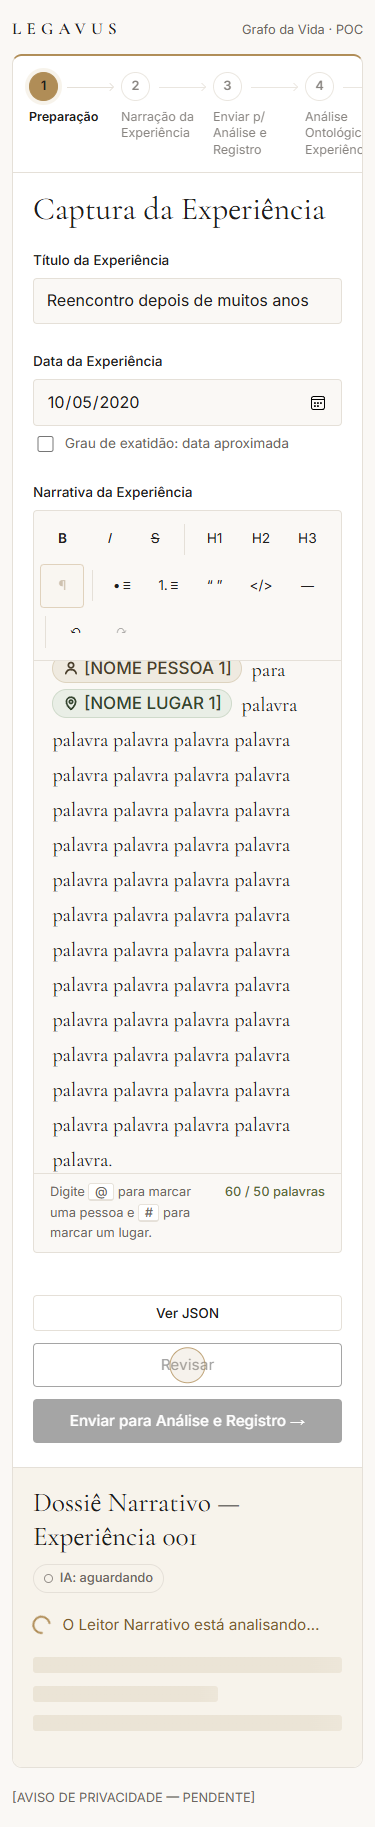
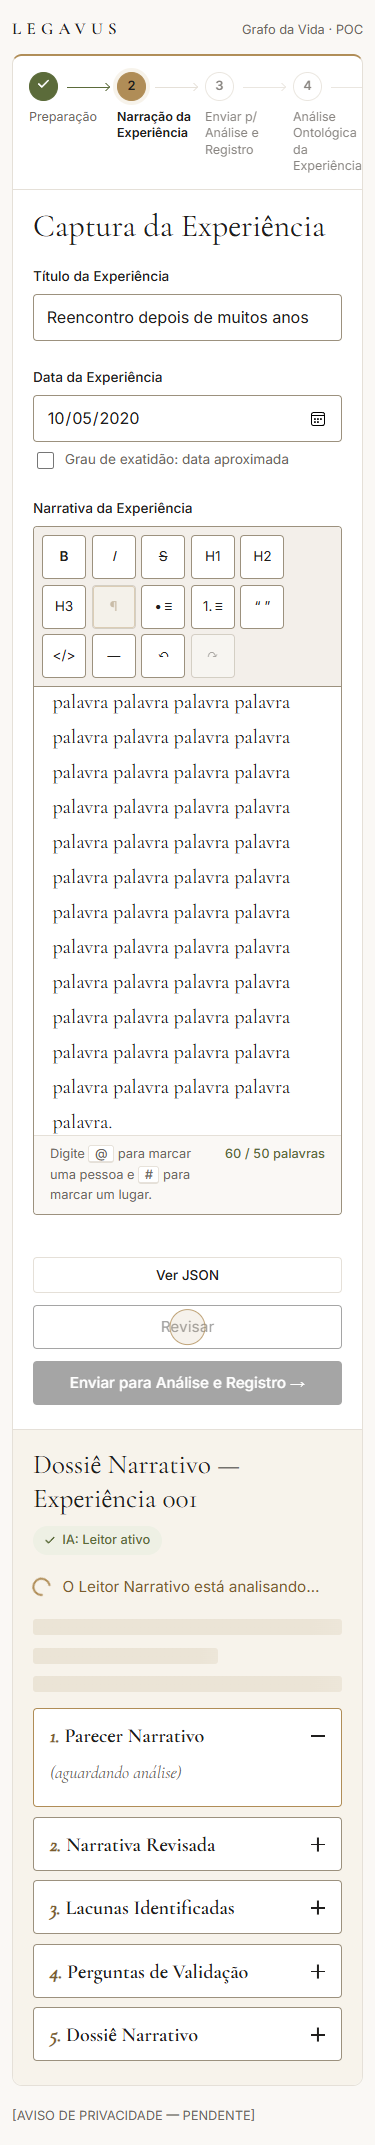
docs: QA do layout, relatorios T11b/T12 e prints

Changed region(s): [[0.0293, 0.0, 0.968, 0.9984], [0.8213, 0.1872, 0.88, 0.2496]]

diff --git a/orquestracao/qa/RELATORIO-layout.md b/orquestracao/qa/RELATORIO-layout.md
@@ -1,0 +1,18 @@
+# RELATORIO-layout — QA (branch fix/layout-2-colunas)
+Executado de verdade: Playwright (Edge) em http://localhost:8765, 1440/1024/768/375, scripts + prints; leitura de index.html, main.js, retorno.js, captura.js, style.css. Não alterei código.
+
+1. 2 colunas desktop — PASSOU. Stepper no topo da esquerda (y=56), Dossiê à direita em todas as telas; `.col-esq-corpo` (overflow auto) e `.dossie-corpo` rolam sozinhos (scroll esq=60, dossiê=0, janela=0).
+2. Stepper 5 fases — PASSOU. Preparação `A* F F F F` → Captura `C A*` → após Revisar `C C A*` → Enviar `C C C A*` → fim `C C C C C*`; `aria-current=step` sempre em 1 item.
+3. Painel Dossiê — PASSOU. 5 itens de acordeão sempre no DOM; vazio → loading (skeleton + role=status) → preenchido (chips + 5 itens); Original x Revisada alterna (aria-pressed). Só [PLACEHOLDER]/[CONTEÚDO DO LEITOR].
+4. Responsivo — PASSOU com ressalva. 768 e 375 empilham (stepper → ação → Dossiê), 0 rolagem horizontal. 1024 permanece em 2 colunas (503/457 px), sem overflow: é o desenho do T10/PLANO §3 (≥1024 = 2 col), mas o checklist pedia empilhar em 1024. Confirmar com o Orquestrador qual vale.
+5. Regressões — PASSOU. Título ≤9 ("O título precisa ter mais de 9 caracteres."), data futura ("precisa estar no passado"), erros somem ao corrigir; contador 64/50 libera Revisar; @ lista 5 pessoas, # lugares; "Criar “xyzw” como nova pessoa" aparece; Criar via teclado abre modal com nome pré-preenchido; Cancelar fecha; Salvar insere chip (P006/P007, status=new); Ver JSON traz id,label,entityType,status (existing/new); Esc fecha. NOK (?nok=…): badge NOK + "Tentar novamente" visível, Avançar bloqueado, stepper fica na fase 1.
+6. Teclado/foco/aria — PASSOU com bug. Skip-link é o 1º Tab; foco visível (outline 2px dourado); aria-live em contadores, IA, loading, narrativa. prefers-reduced-motion: classe `anim` ausente, 0 transições/animações >50ms, barras sem transição.
+7. Visual — PASSOU. Serifa (Cormorant) + sans (Inter), off-white + dourado, cartão único; coerente com o molde (2 colunas, stepper, Dossiê com acordeão numerado). Diferença aceita: stepper tem Preparação (5 fases por DECISÕES 15).
+8. Dados inventados/console — PASSOU. Só [NOME PESSOA n]/[ID …]/[CONTEÚDO DO LEITOR]; rodapé "[AVISO DE PRIVACIDADE — PENDENTE]". Console: 0 erros em todos os fluxos (desktop, 3 viewports, NOK, reduced-motion).
+
+## Bugs
+- QA-L1 (média, a11y): ao abrir qualquer modal (Nova pessoa/lugar e Ver JSON) o foco fica em BODY (`document.activeElement`=BODY após 600–800 ms), não no 1º campo/dialog; teclado/leitor de tela não são levados ao modal. Esperado: foco no campo Nome / título do modal. Provável: js/captura.js `abrirModal` (≈l.268–272) — `focar.focus()` falha (alvo sem tabindex/escondido por animação do animacoes.js) ou é roubado pelo editor ao sair do popup (l.309).
+- QA-L2 (baixa, a validar): 1024 em 2 colunas vs. checklist (ver item 4).
+Não testado: leitor de tela real; trap de foco completo dentro do modal.
+
+Veredito: APROVADO COM RESSALVAS — corrigir QA-L1 e decidir QA-L2; reteste após correção.

diff --git a/orquestracao/relatorios/T12-designer.md b/orquestracao/relatorios/T12-designer.md
@@ -1,0 +1,8 @@
+# T12 — Prisma: caixas de texto, Dossiê com 5 abas fixas, QA-L1
+Arquivos: `index.html`, `css/style.css`, `js/animacoes.js`, `PLANO.md` §3.6. Branch fix/layout-2-colunas. Testado em localhost:8765 (Playwright/Edge, 1440 e 375): fluxo completo, 0 erros de console, 0 overflow. Prints 01–09 atualizados em `orquestracao/pesquisa/prints/`.
+- (A) Título, data e editor são caixas com contorno visível (`--field-border #9C917E`, ≥3:1), fundo branco, rótulo acima, "Grau de exatidão" sob a data. A toolbar é uma faixa dentro do topo da caixa, com botões em caixinha; rodapé do editor com dica e contador. Na Preparação, cada passo virou uma caixa do mesmo padrão. Paleta marfim+dourado e serifa/sans mantidas. Editor menor, para o "Enviar p/ Análise e Registro →" (à direita) caber sem rolar a 1440×900.
+- (B) O acordeão fica sempre visível, em abas-caixa que abrem para baixo (1–5), também no vazio e na Preparação. Vazio: aba 1 aberta com `#dossie-vazio` ("(parecer narrativo gerado)" + "O resultado da IA aparecerá aqui"); abas 2–5 recolhidas e clicáveis com "(aguardando análise)". Loading mantém o bloco `#dossie-loading` acima das abas. Ready mostra o conteúdo real e as referências.
+- Mudança de DOM (só HTML/CSS, via `data-state`): o acordeão saiu de `#dossie-conteudo` (agora só tem os chips); `#dossie-vazio` está dentro da aba 1; cada corpo tem `.acc-wait` e `.acc-real` (os ids `#dossie-*-texto` e `#toggle-comparacao` estão dentro de `.acc-real`). Nenhum id mudou.
+- (C) QA-L1: `animacoes.js` l.69 agora usa `clearProps: "opacity"`; o foco do modal JSON fica em `btn-fechar-json` (conferido a 900 ms).
+- Pedido à Forja: nada em retorno.js (sem mudança de ids; a lógica de estado e dos cabeçalhos continua válida). Opcional: nenhum.
+- Ramo commita: `index.html`, `css/style.css`, `js/animacoes.js`, `orquestracao/PLANO.md`, prints, relatório.

diff --git a/orquestracao/DECISOES.md b/orquestracao/DECISOES.md
@@ -14,3 +14,5 @@
 13. Fase 4: arvore de trabalho unica e agentes em paralelo => commits em dev por tarefa (Ramo, add so dos arquivos da tarefa), sem branches feat/ simultaneas.
 14. TipTap: unificar em 2.27.3 (importmap Prisma + import pm no captura.js Forja). Mention aceita 1 suggestion: extensao propria com 2 Suggestion (achado da Forja, corrige pesquisa T01).
 15. Correcao de layout (aprovada): cartao unico em 2 colunas em todas as telas; stepper de 5 fases (1 Preparacao, 2 Narracao, 3 Enviar p/ Analise e Registro, 4 Analise Ontologica, 5 Registro) no topo da esquerda; acao a esquerda, Dossie sempre visivel a direita; molde: referencias/layout-referencia.png. Branch fix/layout-2-colunas. Fase 6 (merge main, tag, README, push) so apos pergunta ao usuario.
+16. QA-L2: 1024px fica em 2 colunas (prompt define desktop >= 1024); empilha abaixo de 1024.
+17. Pedido do usuario: (a) coluna esquerda com campos como CAIXAS DE TEXTO visiveis (titulo, data, editor TipTap em caixa com toolbar, como referencias/layout-referencia.png); (b) Dossie com as 5 abas horizontais do acordeao SEMPRE visiveis, abrindo/fechando para baixo, inclusive no estado vazio (1. Parecer aberto com '(parecer narrativo gerado)'; 2 a 5 recolhidas).

diff --git a/orquestracao/relatorios/T11b-programador.md b/orquestracao/relatorios/T11b-programador.md
@@ -1,0 +1,6 @@
+# Relatório T11b — Forja (QA-L1: foco do modal em BODY)
+- Causa: `js/animacoes.js` l.69 (Prisma), não o captura.js. `abrirModal` foca certo (`pessoa-nome` / `btn-fechar-json` a 0 e 100 ms); ao terminar o `gsap.from(el /* .modal */, { opacity: 0, …, clearProps: "all" })` (~250 ms), o foco cai em BODY (focusout com relatedTarget null). Provado no Playwright: sem a l.69 ou sem o animacoes.js → foco mantido.
+- **Correção para o Prisma (testada via rota no Playwright):** l.69 → `clearProps: "opacity"` no lugar de `"all"`. Resultado: foco em `pessoa-nome` e em `btn-fechar-json` a 0/100/300/800 ms, 0 erros no console.
+- Fechar já devolve o foco: Cancelar/Salvar/Esc da entidade → editor (ProseMirror focado, conferido); Ver JSON → o botão "Ver JSON" que o abriu (padrão WAI-ARIA; se quiserem o editor, é 1 linha).
+- captura.js sem mudança. Trap de foco completo dentro do modal segue fora do escopo.
+- Status: FEITO (correção depende de 1 linha no animacoes.js pelo Prisma).
